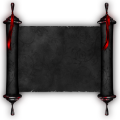
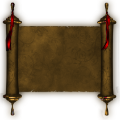
uploadimage fertig

diff --git a/public/dnd.js b/public/dnd.js
@@ -1,42 +1,36 @@
-//TODO socket emit - socket on - socket on(server) - socket.broadcast
-//LoginDiv, danach wird erst die seite geladen mit username
-let login = start();
+//TODO socket emit (schickts los an server) - socket on, emit/broadcast (server schickts zurück) - socket on js listened wieder
+const login = start();
 
 function start() {
     document.getElementById('loginButton').addEventListener('click', function () {
 
         if (document.getElementById('loginInput').value !== "") {
             const username = document.getElementById('loginInput').value;
-            let klasse = "";
+            if (username === "Gott") {
+                dnd(username);
+            } else {
+                let klasse = "";
 
-            var ele = document.getElementsByName('radio');
-            for (i = 0; i < ele.length; i++) {
-                if (ele[i].type = "radio") {
-                    if (ele[i].checked) {
-                        klasse = ele[i].value;
+                var ele = document.getElementsByName('radio');
+                for (i = 0; i < ele.length; i++) {
+                    if (ele[i].type = "radio") {
+                        if (ele[i].checked) {
+                            klasse = ele[i].value;
+                        }
                     }
                 }
+                // console.log('Start: ' + username + ' ' + klasse);
+                dnd(username, klasse);
             }
-            console.log('Start: ' + username + ' ' + klasse);
-            dnd(username, klasse);
         } else {
             alert("name ausfüllen");
         }
     });
-
 }
-
-
-
-
 
 const form = document.getElementById('chatForm');
 const input = document.getElementById('chatText');
 const messages = document.getElementById('chatlog');
-
-//login prompt
-// let promptName = prompt("Gib deinen Charakternamen ein:");
-// const username = promptName.substring(0, 30);
 
 const socket = io();
 
@@ -116,9 +110,11 @@ function dnd(username, klasse) {
         document.getElementById('nameContainer').innerHTML = "";
         document.getElementById('charContainer').innerHTML = "";
         for (i = 1; i < data.playerList.length; i++) {
-            console.log(data.playerList);
-            console.log(data.playerList[i].data, data.playerList[i].klasse);
-            let player = new Player(data.playerList[i].data, data.playerList[i].klasse);
+            // console.log(data.playerList);
+            // console.log(data.playerList[i].data, data.playerList[i].klasse);
+            if(data.playerList[i].data !== "Gott"){
+                let player = new Player(data.playerList[i].data, data.playerList[i].klasse);
+            }
         }
     });
 

diff --git a/views/index.html b/views/index.html
@@ -16,10 +16,11 @@
                 <p id="pWelcome"><b><i>Dungeons & Dragons</b> <small>by PatPat</small></i></p>
             </div>
             <div id="divCharName">
-                    <p id="pCharName" class="loginQuestion">Wie ist Ihr Name?</p>
-                </div>
+                <p id="pCharName" class="loginQuestion">Wie ist Ihr Name?</p>
+            </div>
             <div id="loginName">
-                <input type="text" id="loginInput" class="input" autocomplete="off" maxlength="100" required="required" autofocus/>
+                <input type="text" id="loginInput" class="input" autocomplete="off" maxlength="100" required="required"
+                    autofocus />
             </div>
             <div id="divQuestion">
                 <p id="pQuestion" class="loginQuestion">Welche Klasse bist du?</p>
@@ -87,7 +88,8 @@
 
         <div id='dungeonMasterContainer'>
             <div id='dungeonMasterDiv'>
-                <!-- <button class="hochladOverlap">Hochlad</button> -->
+                <input type="text" class ="hochladOverlap" id="hochladInput" placeholder="url vom bild"/>
+                <button id="hochloadButton" class="hochladOverlap">Hochlad</button>
             </div>
         </div>
 
@@ -164,6 +166,7 @@
 <script src="https://cdnjs.cloudflare.com/ajax/libs/socket.io/2.2.0/socket.io.dev.js"></script>
 <script type="text/javascript" src="display.js"></script>
 <script type="text/javascript" src="dnd.js"></script>
+<script type="text/javascript" src="upload.js"></script>
 <script type="text/javascript" src="quest.js"></script>
 
 </html>

diff --git a/public/style.css b/public/style.css
@@ -123,8 +123,6 @@ body {
     background: #ebe1d1
 }
 
-
-
 #dungeonMasterContainer {
     display: flex;
     flex-direction: row;
@@ -134,21 +132,19 @@ body {
 }
 
 #dungeonMasterDiv {
-    position: relative;
-    z-index: 1;
     display: flex;
-    flex-direction: row;
+    border-radius: 15px;
     justify-content: center;
-    height: 150px;
-    width: 150px;
-    background-image: url("/images/dm.png");
+    height: 200px;
+    width: 200px;
+    background-image: url(/images/dm.png);
     background-size: cover;
     background-repeat: no-repeat;
 }
 
-/* #dungeonMasterDiv:hover .hochladOverlap{
+#dungeonMasterDiv:hover .hochladOverlap{
     display: block;
-} */
+}
 
 #utilityContainer {
     display: flex;
@@ -204,15 +200,16 @@ body {
     margin-right: 20px;
 }
 
-/* .hochladOverlap {
-    position: absolute;
+.hochladOverlap {
+    /* position: absolute; */
     z-index: 2;
     display: none;
+    align-self: flex-end;
 }
 
 .chars:hover .hochladOverlap {
     display: block;
-} */
+}
 
 /* .background {
     background: grey;

diff --git a/index.js b/index.js
@@ -24,7 +24,7 @@ io.on('connection', (socket) => {
 
         //Name ins Array und an alle pushen
         let playerObject = {data,klasse};
-        console.log(playerObject);
+        // console.log(playerObject);
         playerList.push(playerObject);
         socket.emit("showPlayers", {
             playerList
@@ -48,7 +48,7 @@ io.on('connection', (socket) => {
     socket.on("deleteQuest", function (data) {
         // data.username = this.username;
         socket.broadcast.emit("deleteQuest", data);
-        console.log('delete');
+        // console.log('delete');
     });
 
     //Würfelergebnis an alle
@@ -56,6 +56,11 @@ io.on('connection', (socket) => {
         data.username = this.username;
         socket.emit("roll", data);
         socket.broadcast.emit("roll", data);
+    });
+
+    socket.on("upload", function (data){
+        socket.emit("upload", data);
+        socket.broadcast.emit("upload", data);
     });
 
     socket.on("disconnect", function (data) {

diff --git a/public/upload.js b/public/upload.js
@@ -1,0 +1,13 @@
+const hochladbtn = document.getElementById('hochloadButton');
+let hochladinput = document.getElementById('hochladInput');
+let uploadImage;
+
+hochladbtn.addEventListener('click',function(){
+    uploadimage = document.getElementById('dungeonMasterDiv').style.backgroundImage = "url("+hochladinput.value+")";
+    let uploadurl = hochladinput.value;
+    socket.emit("upload", uploadurl);
+})
+
+socket.on("upload", function (data) {
+    document.getElementById('dungeonMasterDiv').style.backgroundImage = "url("+data+")";
+});
